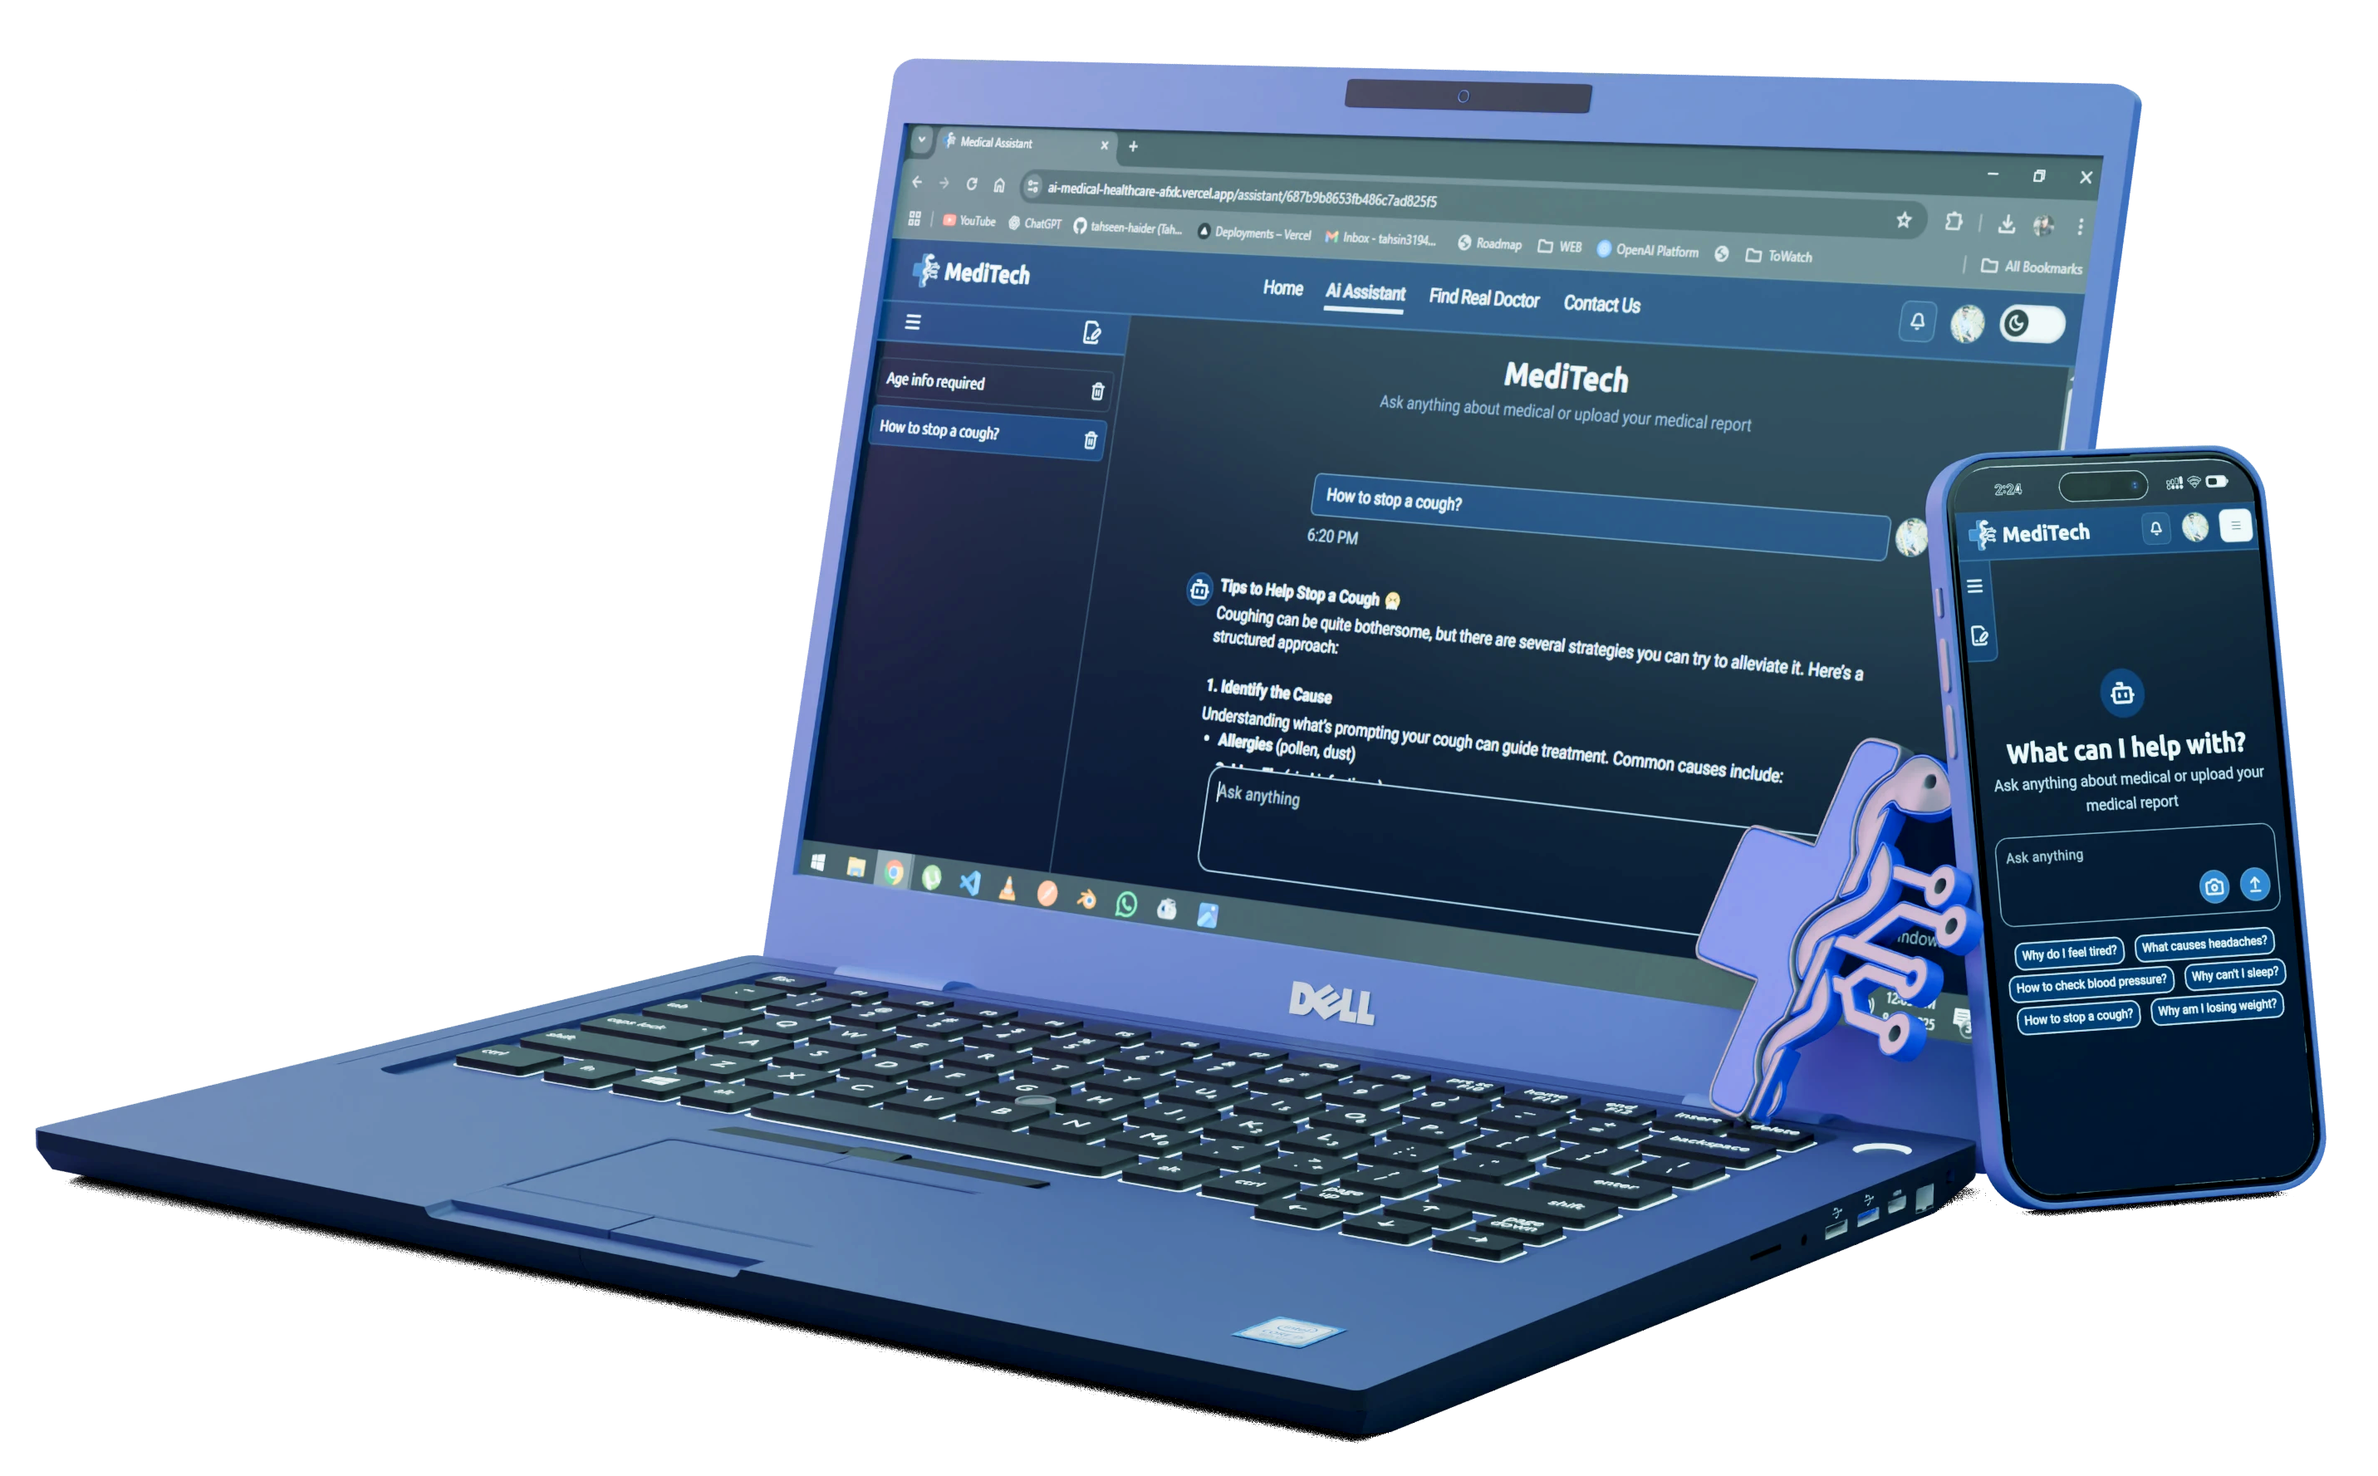
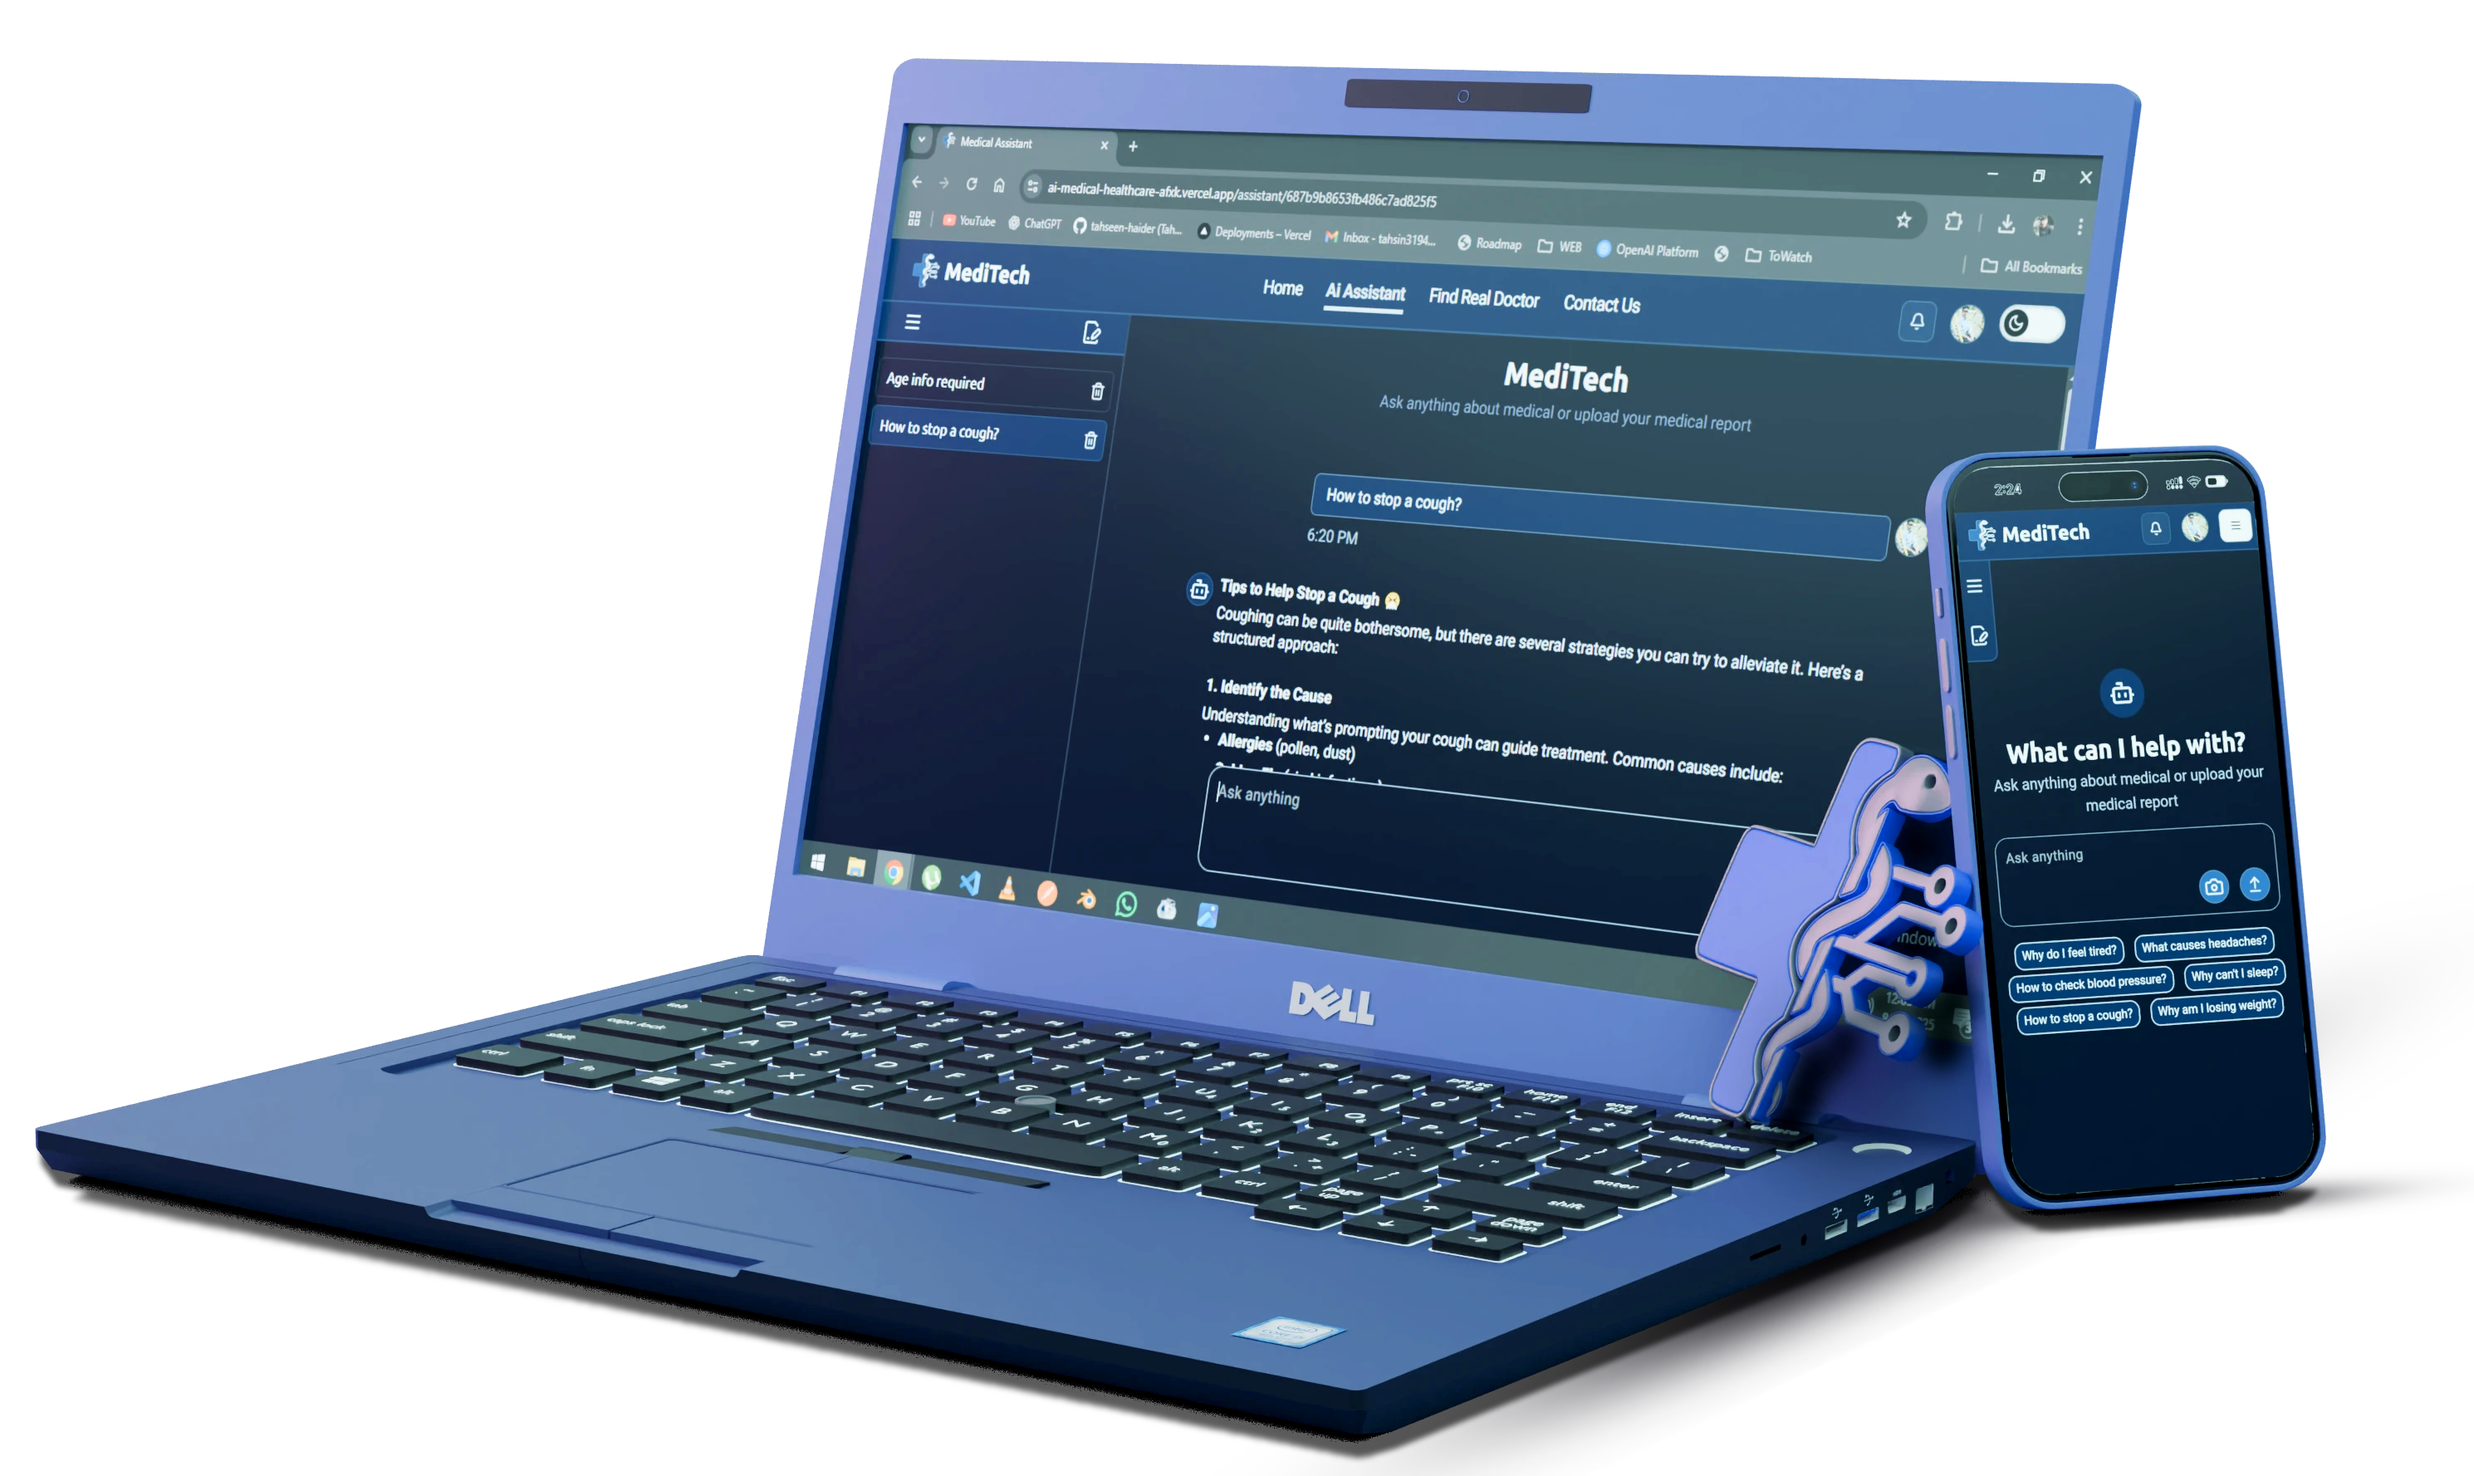
style

Changed region(s): [[0.0311, 0.031, 0.9948, 0.9904], [0.5285, 0.031, 0.5906, 0.0929], [0.0, 0.7738, 0.0311, 0.8047]]

diff --git a/components/Hero.tsx b/components/Hero.tsx
@@ -54,7 +54,7 @@ export default function HeroSection() {
           {/* Image/Graphic Placeholder - Stays large on all screens, prioritized */}
           <div className="w-full min-w-[280px] max-w-[400px] md:max-w-lg lg:max-w-lg xl:max-w-xl 2xl:max-w-2xl flex items-center justify-center ">
             <div className="w-full flex items-center justify-center ">
-              <Image src="/images/Base1.webp" width={2000} height={2000} alt="hero-graphics-main"/>
+              <Image src="/images/Base.webp" width={2000} height={2000} alt="hero-graphics-main"/>
             </div>
           </div>
         </div>
